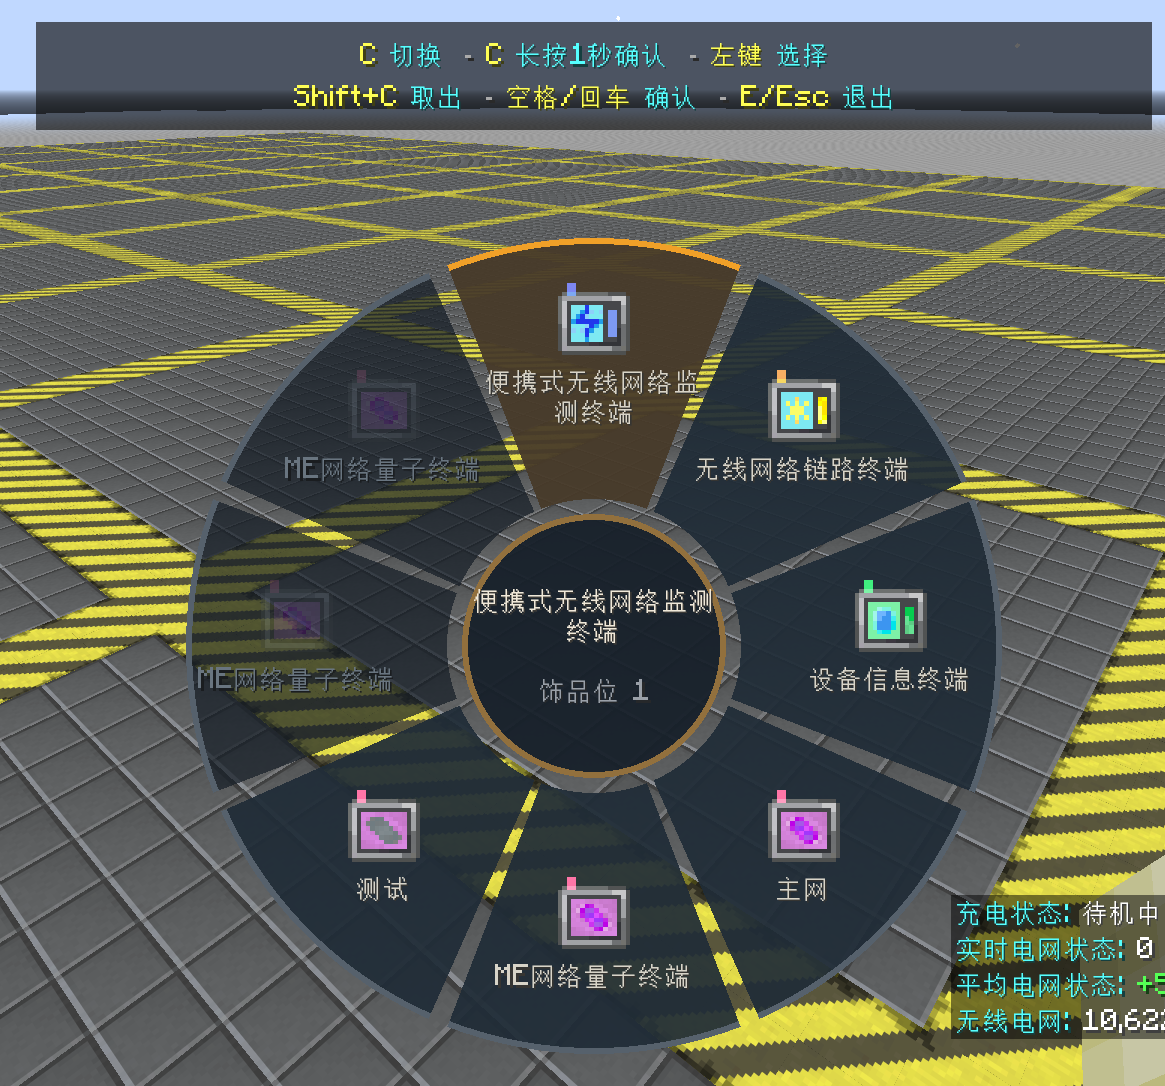
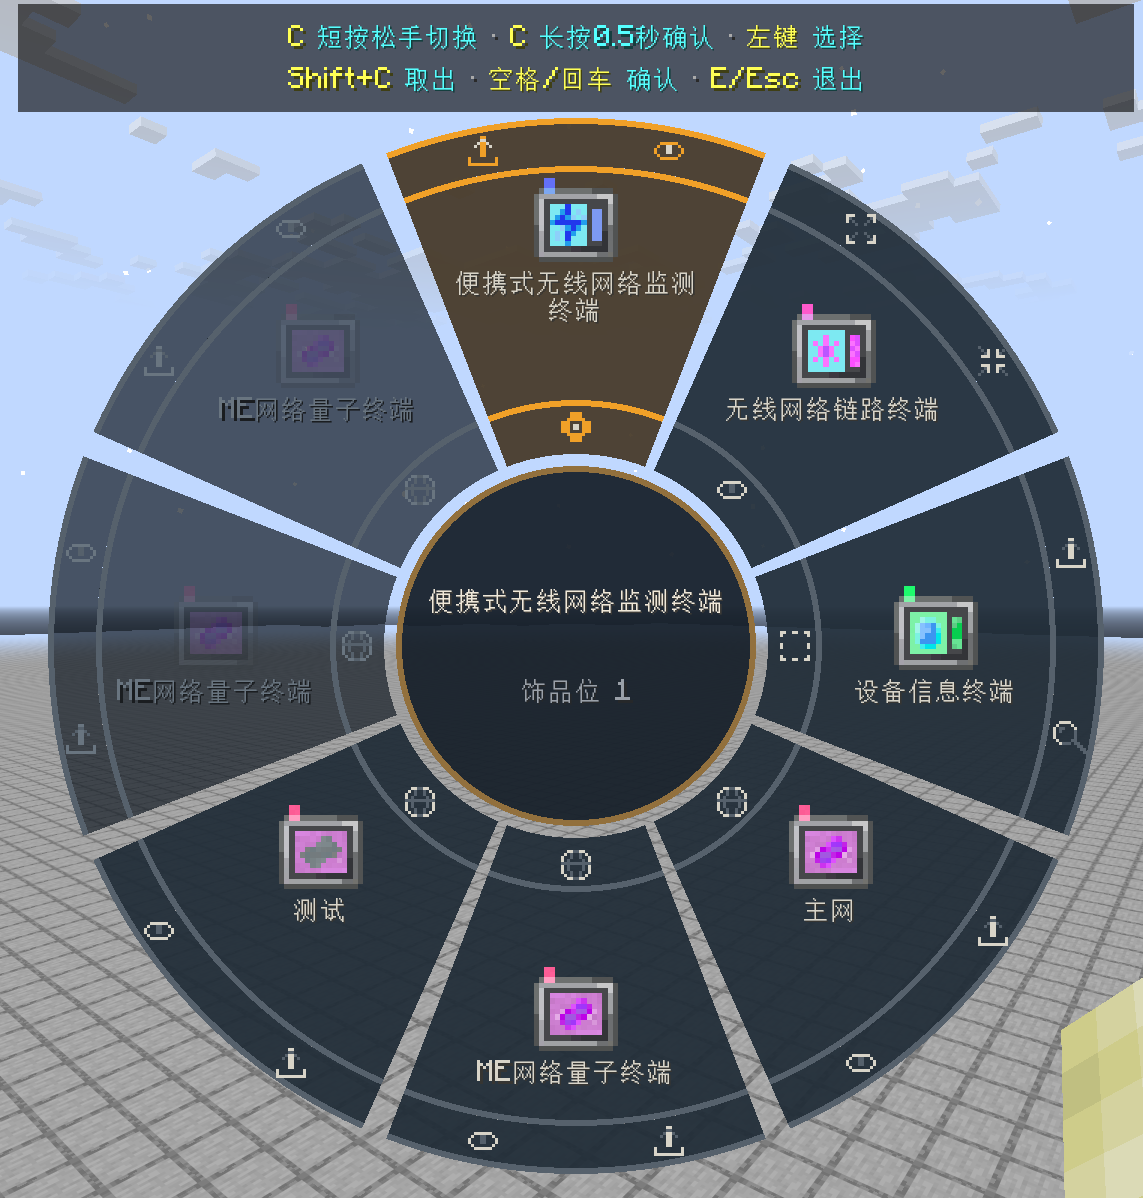
v2.1.15 更新轮盘实机配图与操作说明
使用用户确认的轮盘截图，补充四按钮功能与单击操作说明。

更新正式版下载入口为v2.1.15。

diff --git a/README.md b/README.md
@@ -29,7 +29,7 @@
 
 | GTNH | GTSWN 版本范围 / Version range | 下载 / Download |
 | --- | --- | --- |
-| 2.9.0 正式版 / final | 2.1.0 ~ + | [v2.1.13](https://github.com/MIAOKATZE/GT-Simple-Wireless-Network/releases/tag/v2.1.13) |
+| 2.9.0 正式版 / final | 2.1.0 ~ + | [v2.1.15](https://github.com/MIAOKATZE/GT-Simple-Wireless-Network/releases/tag/v2.1.15) |
 | 2.9.0 RC-1 / RC-2 | 2.0.0 ~ 2.0.37 | [v2.0.37](https://github.com/MIAOKATZE/GT-Simple-Wireless-Network/releases/tag/v2.0.37) |
 | 2.9.0 beta-1 / beta-2 / beta-3 | 1.8.82 | [v1.8.82](https://github.com/MIAOKATZE/GT-Simple-Wireless-Network/releases/tag/v1.8.82) |
 | 2.8.4 | 0.2.0 | [v0.2.0](https://github.com/MIAOKATZE/GT-Simple-Wireless-Network/releases/tag/v0.2.0) |
@@ -41,7 +41,7 @@
 
 ## 饰品终端与轮盘 / Baubles Terminals & Wheel
 
-<p align="center"><img src="images/Terminal_Baubles_Wheel_Showcase.png" alt="终端饰品栏与八格轮盘 / Terminal Baubles slots and eight-sector wheel" width="640"><br><em>实机图；当前长按确认 0.5 秒 / In-game screenshot; current hold-to-confirm time: 0.5s</em></p>
+<p align="center"><img src="images/Terminal_Baubles_Wheel_Showcase.png" alt="八格终端轮盘与四键操作 / Eight-sector terminal wheel with four actions per sector" width="640"><br><em>按钮单击触发，悬停查看功能；C 长按确认 0.5 秒 / Click buttons immediately; hover for details; hold C for 0.5s to confirm</em></p>
 
 四类专属 Baubles 槽共 **8 格：监测 1 + 链路 1 + 设备 1 + 量子 5**。轮盘按饰品库存顺序仅识别前 **1/1/1/5** 个对应终端，多余同类不参与选择。保留物品染色与自定义名称，便于区分多个量子网络。
 
@@ -52,9 +52,19 @@ Four dedicated Baubles types provide **8 slots: 1 Monitor + 1 Link + 1 Device + 
 | C（手持终端 / holding a terminal）| 有有效借出凭据则归还原饰品槽，否则装备到空的专属槽 / Return a valid borrowed terminal to its origin; otherwise equip into an empty dedicated slot |
 | C（其他情况 / otherwise）| 首次短按只打开八格轮盘 / First tap only opens the eight-sector wheel |
 | 后续短按 C 松手 / Subsequent tap and release C | 轮切；长按 **0.5 秒**确认（含首次）/ Cycle; hold **0.5s** to confirm, including the opening hold |
-| 左键、Enter 或 Space / Left-click, Enter or Space | 确认当前选择；监测/设备打开信息 UI，链路/量子取到手中 / Confirm: Monitor/Device opens its info UI; Link/Quantum moves to hand |
+| 左键主按钮、Enter 或 Space / Main button, Enter or Space | 打开终端页面；链路/量子成功借到手中后打开 / Open terminal UI; Link/Quantum opens after being borrowed into hand |
+| 左键小按钮 / Click an auxiliary button | 立即执行对应功能，无需蓄力；悬停显示功能说明 / Run its action immediately without holding; hover for a tooltip |
 | 轮盘 Shift+C / Shift+C in wheel | 强制取到手中，包括监测/设备终端 / Force selected terminal into hand, including Monitor/Device |
 | E（背包键）或 Esc / Inventory key or Esc | 关闭轮盘；轮盘期间屏蔽游戏操作，关闭后须松开按键再操作 / Close; gameplay input is blocked in the wheel and must be released before resuming |
+
+每个扇区分为内层一键、中层终端主按钮、外层两键。/ Each sector has one inner button, a main terminal button and two outer buttons.
+
+| 终端 / Terminal | 主按钮 / Main | 外层第一键 / Outer first | 外层第二键 / Outer second | 内层键 / Inner |
+|---|---|---|---|---|
+| 监测 / Monitor | 监测页 / Monitor page | 取出 / Take | HUD 开关 / Toggle HUD | HUD 设置 / HUD settings |
+| 链路 / Link | 链路页 / Link page | 能源模式取出 / Take in Energy mode | 动力模式取出 / Take in Power mode | 节点显形 / Reveal nodes |
+| 设备 / Device | 设备列表 / Device list | 取出 / Take | 扫描 / Scan | 可视化 / Visualization |
+| 量子 / Quantum | 网络信息 / Network info | 取出 / Take | 节点显形 / Reveal nodes | 工程节点图 / Engineering node map |
 
 取手时原手持物品移到空背包格；无空位可安置时拒绝取出。借出凭据只认原热栏格中的同一物品，归还要求当前选中该格且原饰品槽为空，切走再切回仍可归还；移走、丢弃或替换后不能据此自动归还，每次仅保留一笔借出。
 
